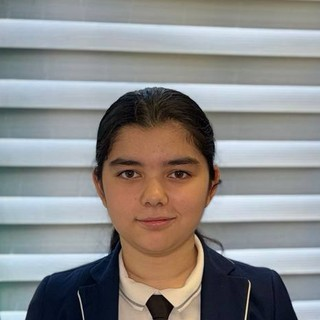
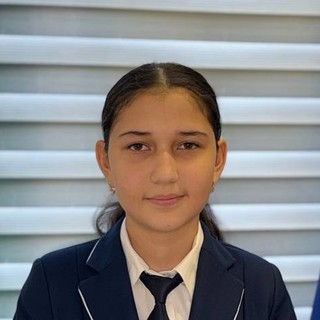
Restore Roziyabonu photo, new Ruxsora photo
Claude-Session: https://claude.ai/code/session_01CBH8yaKx6sUqd6VYkLhC2s

diff --git a/team.html b/team.html
@@ -19,20 +19,20 @@
 
     <section>
       <div class="container grid grid-team">
-        <div class="card member"><div class="avatar"><img src="p01.jpg?v=8" alt="Davron Saidov" loading="lazy"></div><h3>Davron Saidov</h3><div class="role" data-i18n="r_president"></div><div class="role" data-i18n="r_energy"></div></div>
-        <div class="card member"><div class="avatar"><img src="p02.jpg?v=8" alt="Roziyabonu Saidova" loading="lazy"></div><h3>Roziyabonu Saidova</h3><div class="role" data-i18n="r_vice"></div><div class="role" data-i18n="r_energy"></div></div>
-        <div class="card member"><div class="avatar"><img src="p03.jpg?v=8" alt="Feruza Luqmonova" loading="lazy"></div><h3>Feruza Luqmonova</h3><div class="role" data-i18n="r_regional"></div><div class="role" data-i18n="r_bio"></div></div>
-        <div class="card member"><div class="avatar"><img src="p04.jpg?v=8" alt="Madina Ramazonova" loading="lazy"></div><h3>Madina Ramazonova</h3><div class="role" data-i18n="r_greenhouse"></div></div>
-        <div class="card member"><div class="avatar"><img src="p05.jpg?v=8" alt="Mirfayz Sharipov" loading="lazy"></div><h3>Mirfayz Sharipov</h3><div class="role" data-i18n="r_media"></div></div>
-        <div class="card member"><div class="avatar"><img src="p06.jpg?v=8" alt="Diyorbek Baxtiyorov" loading="lazy"></div><h3>Diyorbek Baxtiyorov</h3><div class="role" data-i18n="r_media"></div><div class="role" data-i18n="r_health"></div></div>
-        <div class="card member"><div class="avatar"><img src="p07.jpg?v=8" alt="Mohlaroyim Jo'raqulova" loading="lazy"></div><h3>Mohlaroyim Jo'raqulova</h3><div class="role" data-i18n="r_docs"></div></div>
-        <div class="card member"><div class="avatar"><img src="p08.jpg?v=8" alt="Xurshidjon Salimov" loading="lazy"></div><h3>Xurshidjon Salimov</h3><div class="role" data-i18n="r_waste"></div></div>
-        <div class="card member"><div class="avatar"><img src="p09.jpg?v=8" alt="Ruxsora Ramazonova" loading="lazy"></div><h3>Ruxsora Ramazonova</h3><div class="role" data-i18n="r_water"></div></div>
-        <div class="card member"><div class="avatar"><img src="p10.jpg?v=8" alt="Akbar Axtamov" loading="lazy"></div><h3>Akbar Axtamov</h3><div class="role" data-i18n="r_water"></div></div>
-        <div class="card member"><div class="avatar"><img src="p11.jpg?v=8" alt="Asadbek Baxronov" loading="lazy"></div><h3>Asadbek Baxronov</h3><div class="role" data-i18n="r_bio"></div></div>
-        <div class="card member"><div class="avatar"><img src="p12.jpg?v=8" alt="Kamronbek Bayramov" loading="lazy"></div><h3>Kamronbek Bayramov</h3><div class="role" data-i18n="r_health"></div></div>
-        <div class="card member"><div class="avatar"><img src="p13.jpg?v=8" alt="Kamronbek Jo'raqulov" loading="lazy"></div><h3>Kamronbek Jo'raqulov</h3><div class="role" data-i18n="r_greenhouse"></div></div>
-        <div class="card member"><div class="avatar"><img src="p14.jpg?v=8" alt="Islombek G'aybullayev" loading="lazy"></div><h3>Islombek G'aybullayev</h3><div class="role" data-i18n="r_waste"></div></div>
+        <div class="card member"><div class="avatar"><img src="p01.jpg?v=9" alt="Davron Saidov" loading="lazy"></div><h3>Davron Saidov</h3><div class="role" data-i18n="r_president"></div><div class="role" data-i18n="r_energy"></div></div>
+        <div class="card member"><div class="avatar"><img src="p02.jpg?v=9" alt="Roziyabonu Saidova" loading="lazy"></div><h3>Roziyabonu Saidova</h3><div class="role" data-i18n="r_vice"></div><div class="role" data-i18n="r_energy"></div></div>
+        <div class="card member"><div class="avatar"><img src="p03.jpg?v=9" alt="Feruza Luqmonova" loading="lazy"></div><h3>Feruza Luqmonova</h3><div class="role" data-i18n="r_regional"></div><div class="role" data-i18n="r_bio"></div></div>
+        <div class="card member"><div class="avatar"><img src="p04.jpg?v=9" alt="Madina Ramazonova" loading="lazy"></div><h3>Madina Ramazonova</h3><div class="role" data-i18n="r_greenhouse"></div></div>
+        <div class="card member"><div class="avatar"><img src="p05.jpg?v=9" alt="Mirfayz Sharipov" loading="lazy"></div><h3>Mirfayz Sharipov</h3><div class="role" data-i18n="r_media"></div></div>
+        <div class="card member"><div class="avatar"><img src="p06.jpg?v=9" alt="Diyorbek Baxtiyorov" loading="lazy"></div><h3>Diyorbek Baxtiyorov</h3><div class="role" data-i18n="r_media"></div><div class="role" data-i18n="r_health"></div></div>
+        <div class="card member"><div class="avatar"><img src="p07.jpg?v=9" alt="Mohlaroyim Jo'raqulova" loading="lazy"></div><h3>Mohlaroyim Jo'raqulova</h3><div class="role" data-i18n="r_docs"></div></div>
+        <div class="card member"><div class="avatar"><img src="p08.jpg?v=9" alt="Xurshidjon Salimov" loading="lazy"></div><h3>Xurshidjon Salimov</h3><div class="role" data-i18n="r_waste"></div></div>
+        <div class="card member"><div class="avatar"><img src="p09.jpg?v=9" alt="Ruxsora Ramazonova" loading="lazy"></div><h3>Ruxsora Ramazonova</h3><div class="role" data-i18n="r_water"></div></div>
+        <div class="card member"><div class="avatar"><img src="p10.jpg?v=9" alt="Akbar Axtamov" loading="lazy"></div><h3>Akbar Axtamov</h3><div class="role" data-i18n="r_water"></div></div>
+        <div class="card member"><div class="avatar"><img src="p11.jpg?v=9" alt="Asadbek Baxronov" loading="lazy"></div><h3>Asadbek Baxronov</h3><div class="role" data-i18n="r_bio"></div></div>
+        <div class="card member"><div class="avatar"><img src="p12.jpg?v=9" alt="Kamronbek Bayramov" loading="lazy"></div><h3>Kamronbek Bayramov</h3><div class="role" data-i18n="r_health"></div></div>
+        <div class="card member"><div class="avatar"><img src="p13.jpg?v=9" alt="Kamronbek Jo'raqulov" loading="lazy"></div><h3>Kamronbek Jo'raqulov</h3><div class="role" data-i18n="r_greenhouse"></div></div>
+        <div class="card member"><div class="avatar"><img src="p14.jpg?v=9" alt="Islombek G'aybullayev" loading="lazy"></div><h3>Islombek G'aybullayev</h3><div class="role" data-i18n="r_waste"></div></div>
       </div>
     </section>
   </main>
